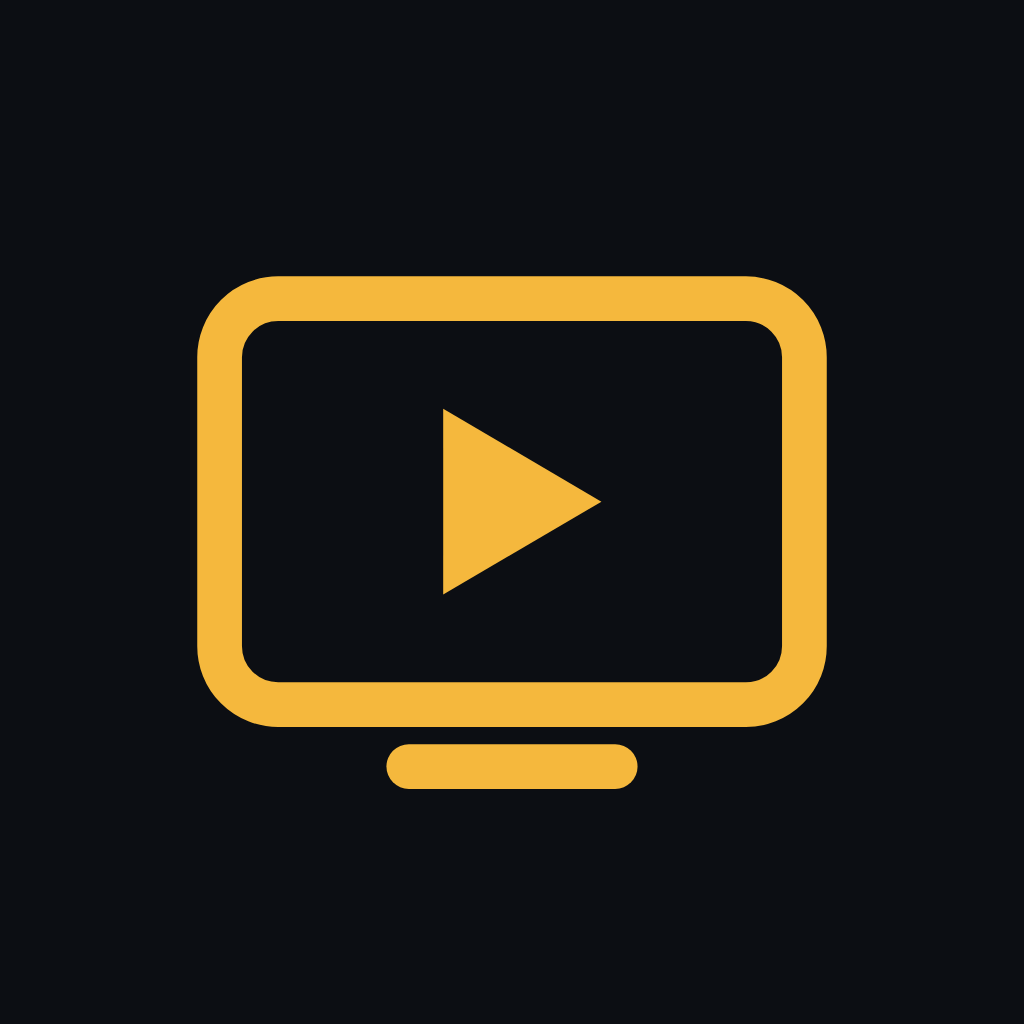
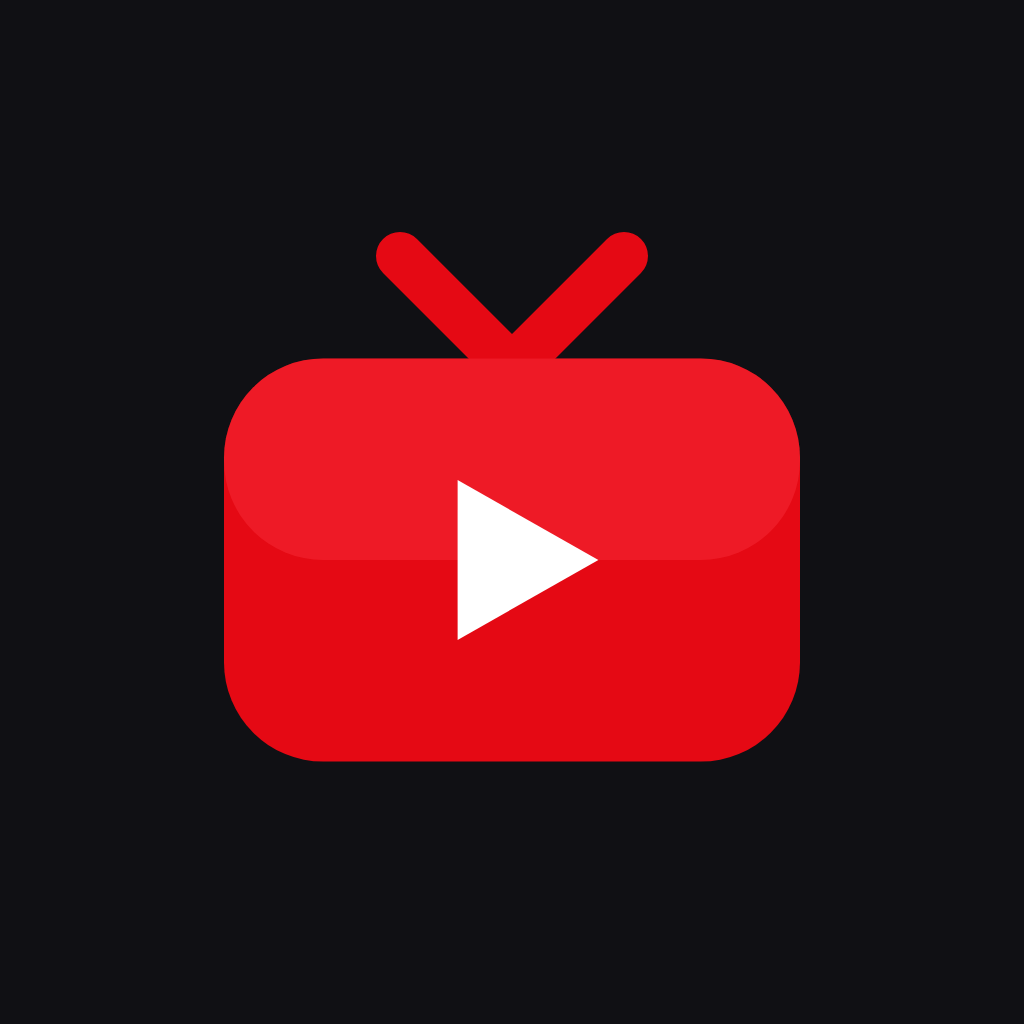
Nom TV Streamy et icône TV rouge
Claude-Session: https://claude.ai/code/session_01BbCKxj3ZjtQjikiXrYb3we

Changed region(s): [[0.1875, 0.2188, 0.8125, 0.7812]]

diff --git a/src/app.html b/src/app.html
@@ -4,7 +4,7 @@
 <meta charset="utf-8">
 <meta name="viewport" content="width=device-width,initial-scale=1,viewport-fit=cover">
 <meta name="theme-color" content="#0c0e13">
-<title>Lecteur IPTV</title>
+<title>TV Streamy</title>
 <style>/*@@FONTS@@*/</style>
 <style>
 /* Layout: streaming-app look — billboard on top, horizontal rows by category, landscape "resume" cards, full-height detail sheets, bottom tab bar */
@@ -31,7 +31,8 @@ svg{flex:none}
 .top.solid{background:rgba(16,16,20,.97);backdrop-filter:blur(8px);-webkit-backdrop-filter:blur(8px)}
 .top.over{position:fixed;left:0;right:0}
 .top .in{display:flex;align-items:center;gap:10px;padding-block:10px}
-.brand{font-family:var(--display);font-weight:800;font-size:1.45rem;letter-spacing:-.02em;flex:none;color:var(--accent2)}
+.brand{display:inline-flex;align-items:center;gap:7px;font-family:var(--display);font-weight:800;font-size:1.3rem;letter-spacing:-.02em;flex:none;color:var(--ink)}
+.brand svg{width:26px;height:26px;color:var(--accent)}
 .acc{flex:1;min-width:0;display:flex;align-items:center;gap:8px;justify-content:flex-end}
 .pill{display:inline-flex;align-items:center;gap:6px;border:0;background:rgba(255,255,255,.12);border-radius:999px;padding:7px 12px;font-weight:600;font-size:.86rem;min-height:36px;max-width:100%}
 .pill span{overflow:hidden;text-overflow:ellipsis;white-space:nowrap}
@@ -533,7 +534,7 @@ function moreHtml(key){return '<button type="button" class="morebtn" data-more="
 /* ---------- views ---------- */
 function topHtml(){
   var a=acc(),busy=Object.keys(UPD).length;
-  return '<header class="top gut'+(BILL&&DATA?' over':' solid')+'" id="topbar"><div class="in"><span class="brand">LECTEUR</span><div class="acc">'+
+  return '<header class="top gut'+(BILL&&DATA?' over':' solid')+'" id="topbar"><div class="in"><span class="brand"><svg viewBox="0 0 24 24" aria-hidden="true"><path d="M8 3l4 4 4-4" fill="none" stroke="currentColor" stroke-width="2" stroke-linecap="round" stroke-linejoin="round"/><rect x="2.5" y="7" width="19" height="13" rx="3.5" fill="currentColor"/><path d="M10 10.6v5.8l5-2.9z" fill="#101014"/></svg>TV Streamy</span><div class="acc">'+
     (busy?'<span class="upd" title="Mise à jour du catalogue en arrière-plan"><i></i>Mise à jour</span>':'')+
     (a?'<button type="button" class="iconbtn" data-tab="search" aria-label="Rechercher">'+IC.search+'</button>':'')+
     (a?'<button type="button" class="pill" data-accounts>'+IC.user+'<span>'+esc(a.name)+'</span></button>':'')+'</div></div>'+
@@ -658,7 +659,7 @@ function viewSearch(){
   return h||'<div class="empty" style="margin-top:12px"><p>Aucun résultat pour « '+esc(S.q)+' ».</p></div>';
 }
 function welcomeHtml(){
-  return '<header class="top gut solid"><div class="in"><span class="brand">LECTEUR</span></div></header><main class="gut welcome"><section class="sec"><h1>Ton IPTV,<br>comme sur une plateforme.</h1>'+
+  return '<header class="top gut solid"><div class="in"><span class="brand"><svg viewBox="0 0 24 24" aria-hidden="true"><path d="M8 3l4 4 4-4" fill="none" stroke="currentColor" stroke-width="2" stroke-linecap="round" stroke-linejoin="round"/><rect x="2.5" y="7" width="19" height="13" rx="3.5" fill="currentColor"/><path d="M10 10.6v5.8l5-2.9z" fill="#101014"/></svg>TV Streamy</span></div></header><main class="gut welcome"><section class="sec"><h1>Ton IPTV,<br>comme sur une plateforme.</h1>'+
     '<p class="muted" style="margin:0 0 18px;max-width:40ch">Ajoute ton compte Xtream Codes : adresse du serveur, identifiant et mot de passe donnés par ton fournisseur. Ils restent sur ce téléphone.</p>'+accountForm({})+'</section></main>';
 }
 function navHtml(){

diff --git a/plugins/iptv-player/android/src/main/java/fr/nagromc86/iptvplayer/PlayerPlugin.java b/plugins/iptv-player/android/src/main/java/fr/nagromc86/iptvplayer/PlayerPlugin.java
@@ -63,7 +63,7 @@ public class PlayerPlugin extends Plugin {
         try {
             DownloadManager.Request r = new DownloadManager.Request(Uri.parse(url));
             r.setTitle(call.getString("title", fileName));
-            r.setDescription("Lecteur IPTV · téléchargement pour regarder hors connexion");
+            r.setDescription("TV Streamy · téléchargement pour regarder hors connexion");
             r.setNotificationVisibility(DownloadManager.Request.VISIBILITY_VISIBLE_NOTIFY_COMPLETED);
             r.setDestinationInExternalFilesDir(getContext(), Environment.DIRECTORY_MOVIES, fileName);
             String ua = call.getString("userAgent", "");

diff --git a/README.md b/README.md
@@ -1,4 +1,4 @@
-# Lecteur IPTV
+# TV Streamy
 
 Appli Android pour regarder ses abonnements IPTV (Xtream Codes) : plusieurs comptes, TV en direct avec programme,
 films et séries, favoris, reprise de lecture, recherche. Les identifiants restent sur le téléphone.
